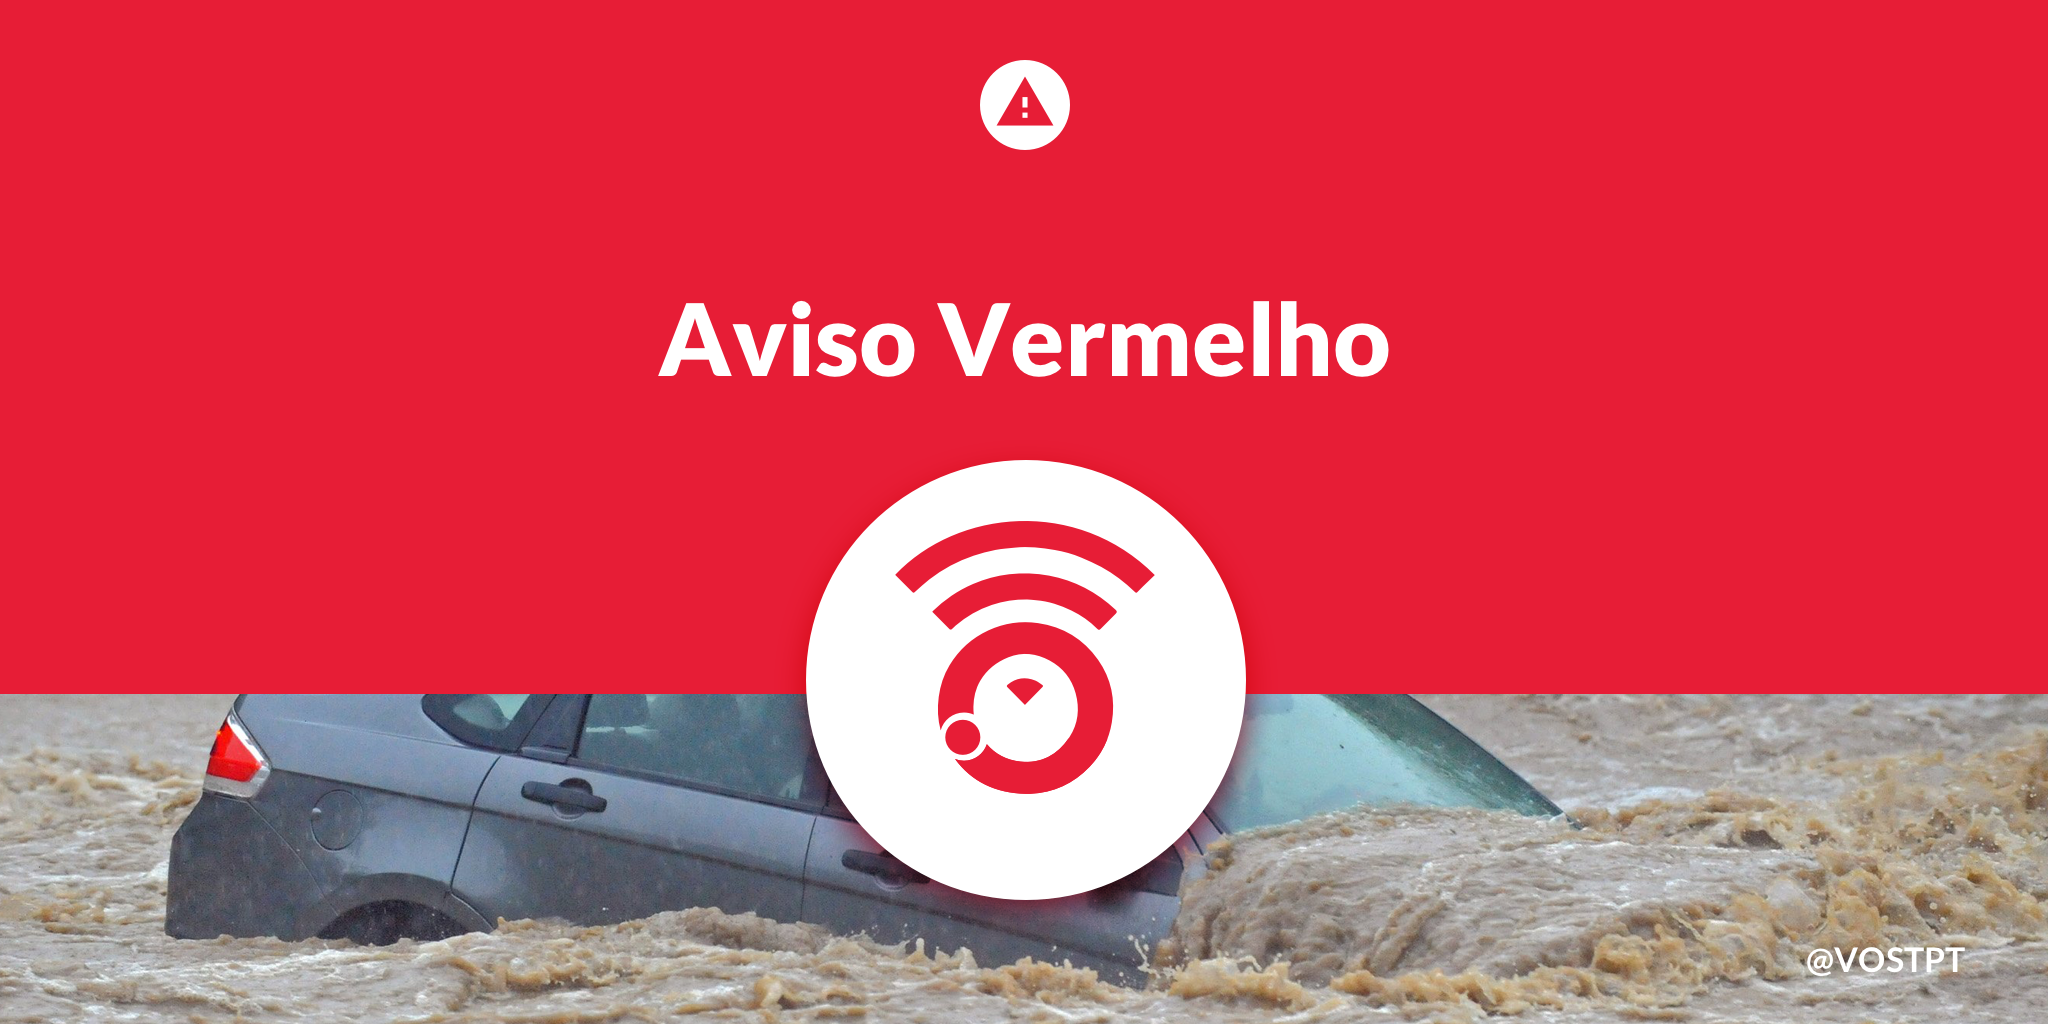
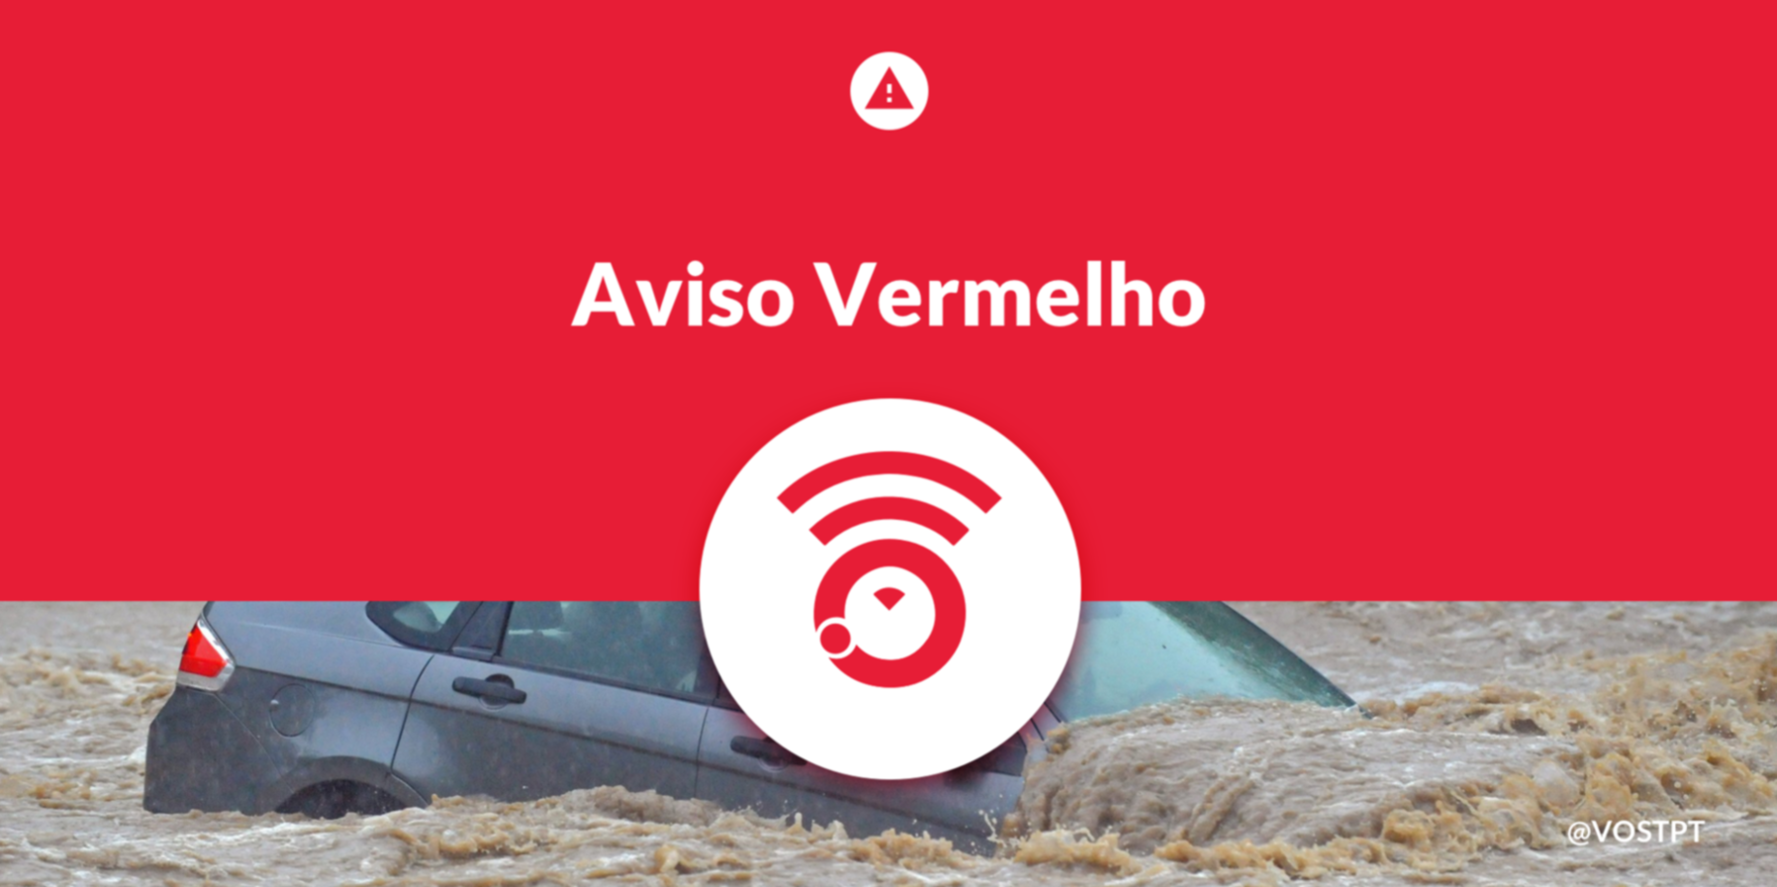
fix images issue when uploading to bsky

Changed region(s): [[0.5571, 0.3348, 0.619, 0.3653], [0.3714, 0.3348, 0.4333, 0.3653], [0.4952, 0.3348, 0.5262, 0.3653]]

diff --git a/src/services/Bsky.js b/src/services/Bsky.js
@@ -2,6 +2,7 @@ const fs = require('fs');
 const path = require('path');
 const axios = require('axios');
 const { bskyKeys } = require('../../config/bsky');
+const sharp = require('sharp');
 
 const handle = bskyKeys.keys.bsky_handle;
 const password = bskyKeys.keys.bsky_password;
@@ -37,7 +38,21 @@ async function uploadImage(imageBuffer, imageType, token) {
     'Authorization': `Bearer ${token}`,
   };
   try {
-    const response = await axios.post('https://bsky.social/xrpc/com.atproto.repo.uploadBlob', imageBuffer, {
+    const sizeInBytes = imageBuffer.length;
+    const sizeInKb = sizeInBytes / 1024;
+
+    let processedBuffer = imageBuffer;
+    if (sizeInKb > 900) {
+        processedBuffer = await sharp(imageBuffer)
+          .resize(1200, 1200, {
+            fit: 'inside',
+            withoutEnlargement: true,
+          })
+        .png({ quality: 85 })
+      .toBuffer();
+    }
+
+    const response = await axios.post('https://bsky.social/xrpc/com.atproto.repo.uploadBlob', processedBuffer, {
       headers: headers,
     });
     if (response.data && response.data.blob) {
